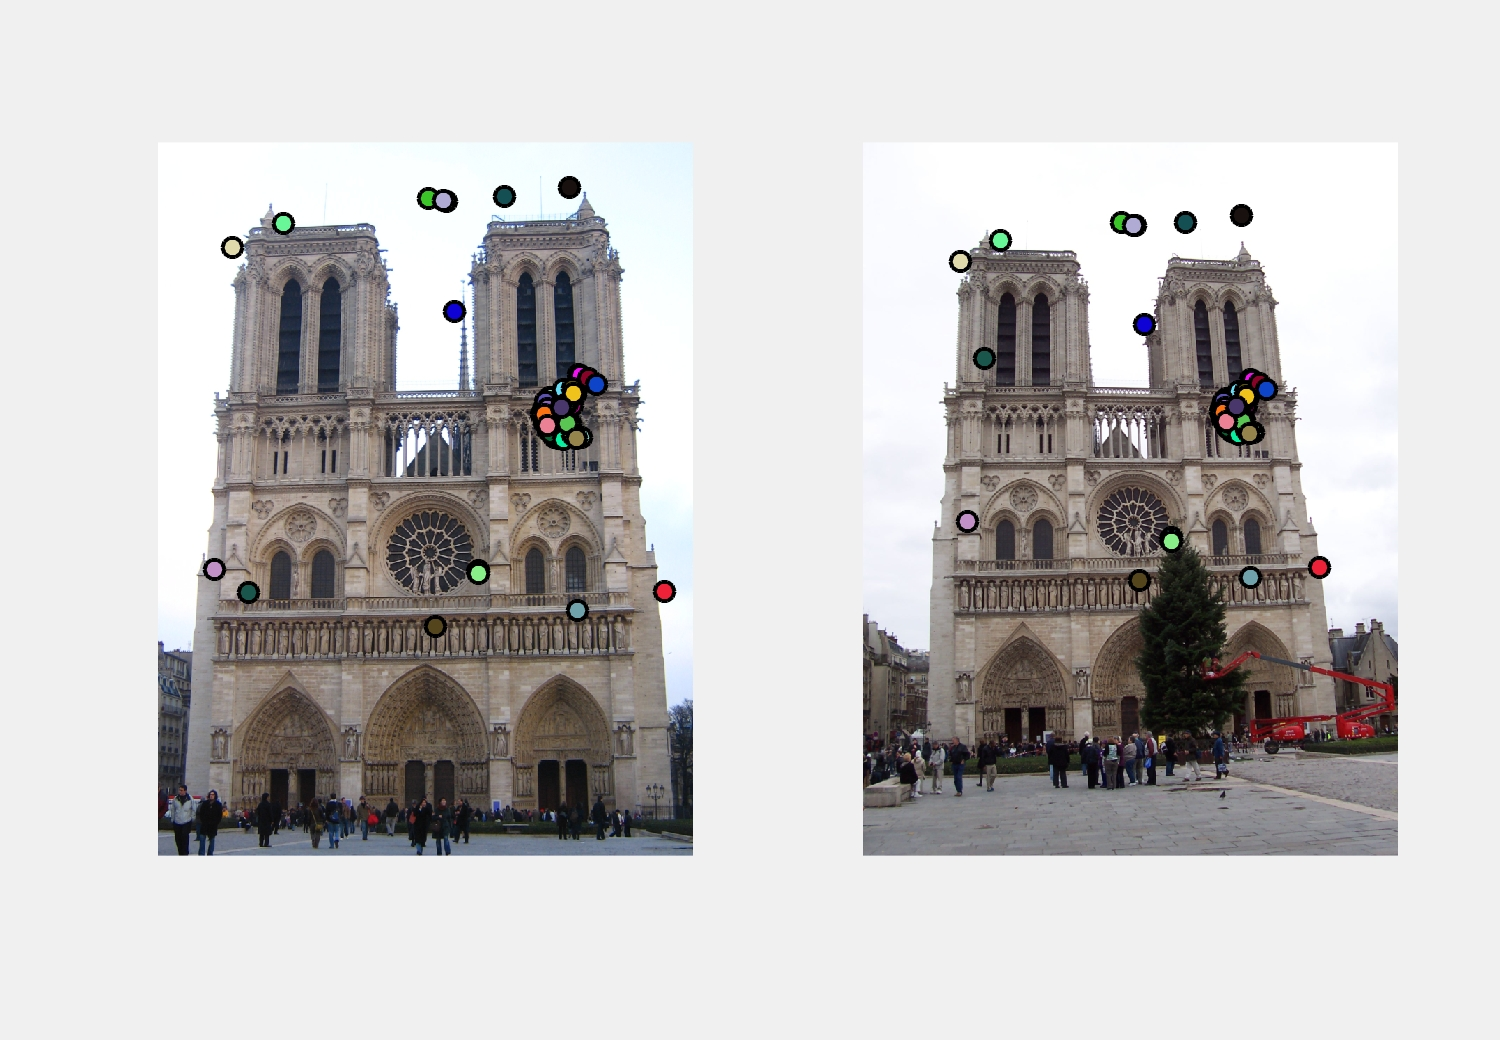
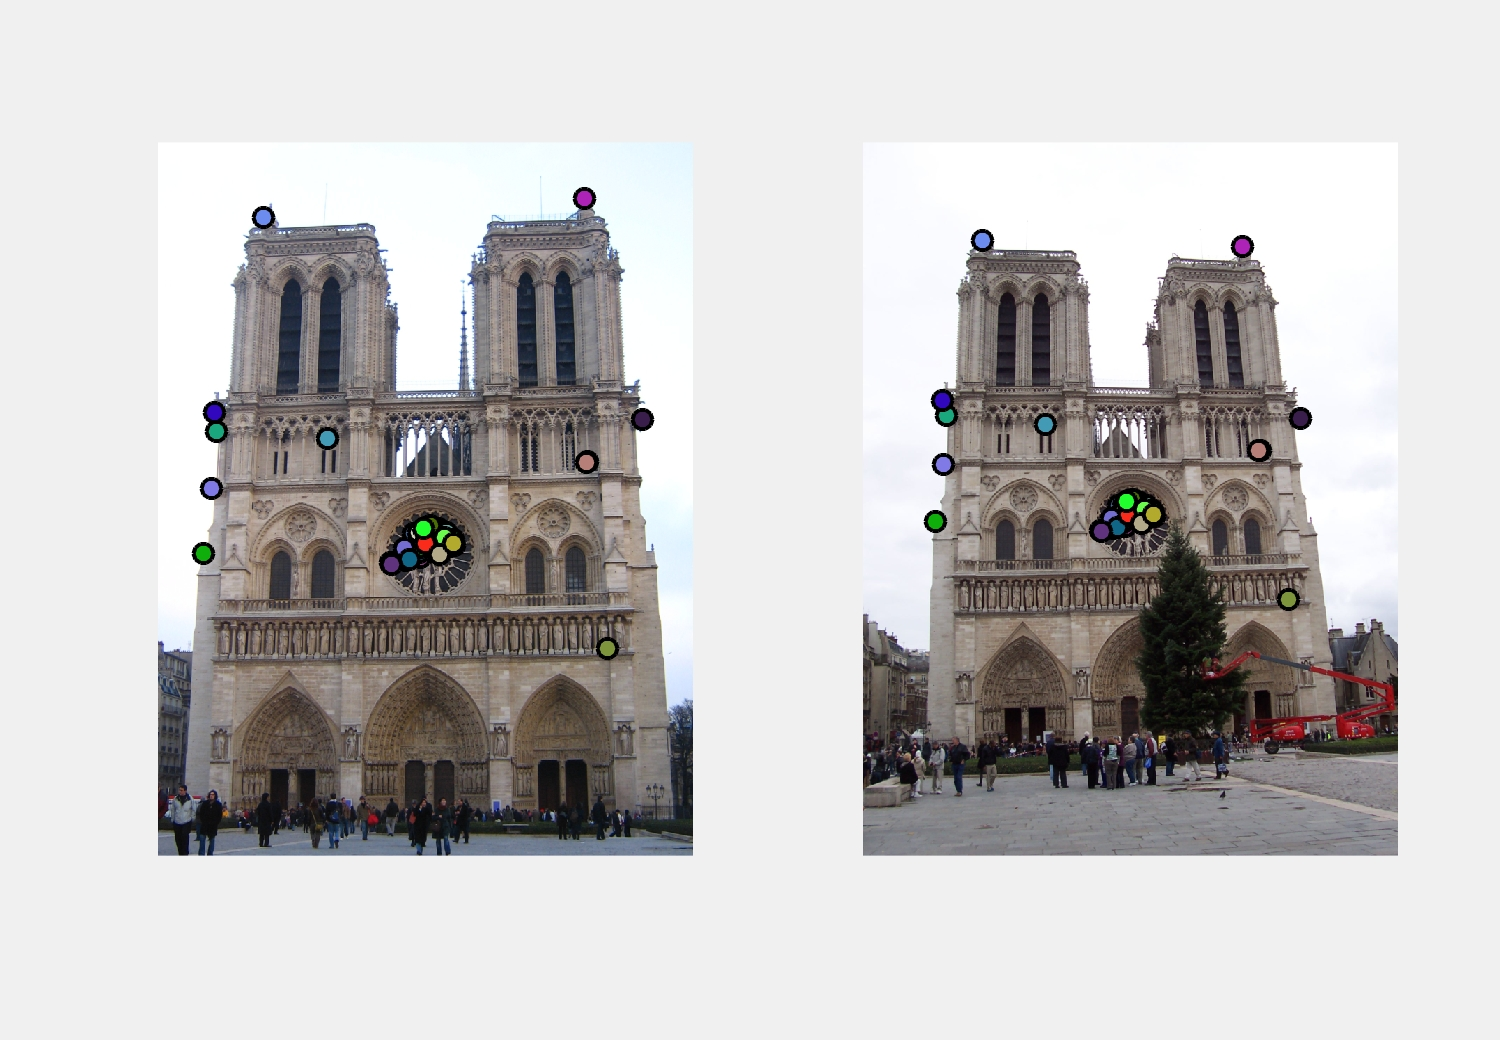
yuzde yuzzzzzz

diff --git a/hw2files/code/proj2.m b/hw2files/code/proj2.m
@@ -23,6 +23,10 @@ close all
 image1 = imread('../data/Notre Dame/921919841_a30df938f2_o.jpg');
 image2 = imread('../data/Notre Dame/4191453057_c86028ce1f_o.jpg');
 
+
+%image1 = imread('../data/Keble/keble_a.jpg');
+%image2 = imread('../data/Keble/keble_b.jpg');
+
 % You don't have to work with grayscale images. Matching with color
 % information might be helpful.
 %image1 = rgb2gray(single(image1)/255);
@@ -54,10 +58,10 @@ feature_width = 16; %width and height of each local feature, 16x16, in pixels.
 % otherwise  things might get too cluttered. You could also threshold based
 % on confidence.
 num_pts_to_visualize = size(matches,1);
-show_correspondence(image1, image2, x1(matches(1:num_pts_to_visualize,1)), ...
-                                    y1(matches(1:num_pts_to_visualize,1)), ...
-                                    x2(matches(1:num_pts_to_visualize,2)), ...
-                                    y2(matches(1:num_pts_to_visualize,2)));
+show_correspondence(image1, image2, y1(matches(1:num_pts_to_visualize,1)), ...
+                                    x1(matches(1:num_pts_to_visualize,1)), ...
+                                    y2(matches(1:num_pts_to_visualize,2)), ...
+                                    x2(matches(1:num_pts_to_visualize,2)));
 
 num_pts_to_evaluate = size(matches,1);
 % All of the coordinates are being divided by scale_factor because of the
@@ -67,10 +71,10 @@ num_pts_to_evaluate = size(matches,1);
 % build ground truth for additional image pairs and then change the paths
 % in 'evaluate_correspondence' accordingly. Or you can simply comment out
 % this function once you start testing on additional image pairs.
-evaluate_correspondence(x1(matches(1:num_pts_to_evaluate,1))/scale_factor, ...
-                        y1(matches(1:num_pts_to_evaluate,1))/scale_factor, ...
-                        x2(matches(1:num_pts_to_evaluate,2))/scale_factor, ...
-                        y2(matches(1:num_pts_to_evaluate,2))/scale_factor);
+evaluate_correspondence(y1(matches(1:num_pts_to_evaluate,1))/scale_factor, ...
+                       x1(matches(1:num_pts_to_evaluate,1))/scale_factor, ...
+                       y2(matches(1:num_pts_to_evaluate,2))/scale_factor, ...
+                       x2(matches(1:num_pts_to_evaluate,2))/scale_factor);
 
 
 

diff --git a/hw2files/code/match_features.m b/hw2files/code/match_features.m
@@ -21,7 +21,7 @@ function [matches, confidences] = match_features(features1, features2)
 % section 4.1.3 of Szeliski. 
 
 % Placeholder that you can delete. Random matches and confidences
-threshold = 0.64;
+threshold = 0.602;
 distances = pdist2(features1, features2, 'euclidean');
 [distances_sorted, indices] = sort(distances, 2);
 % Sort the matches so that the most confident onces are at the top of the
